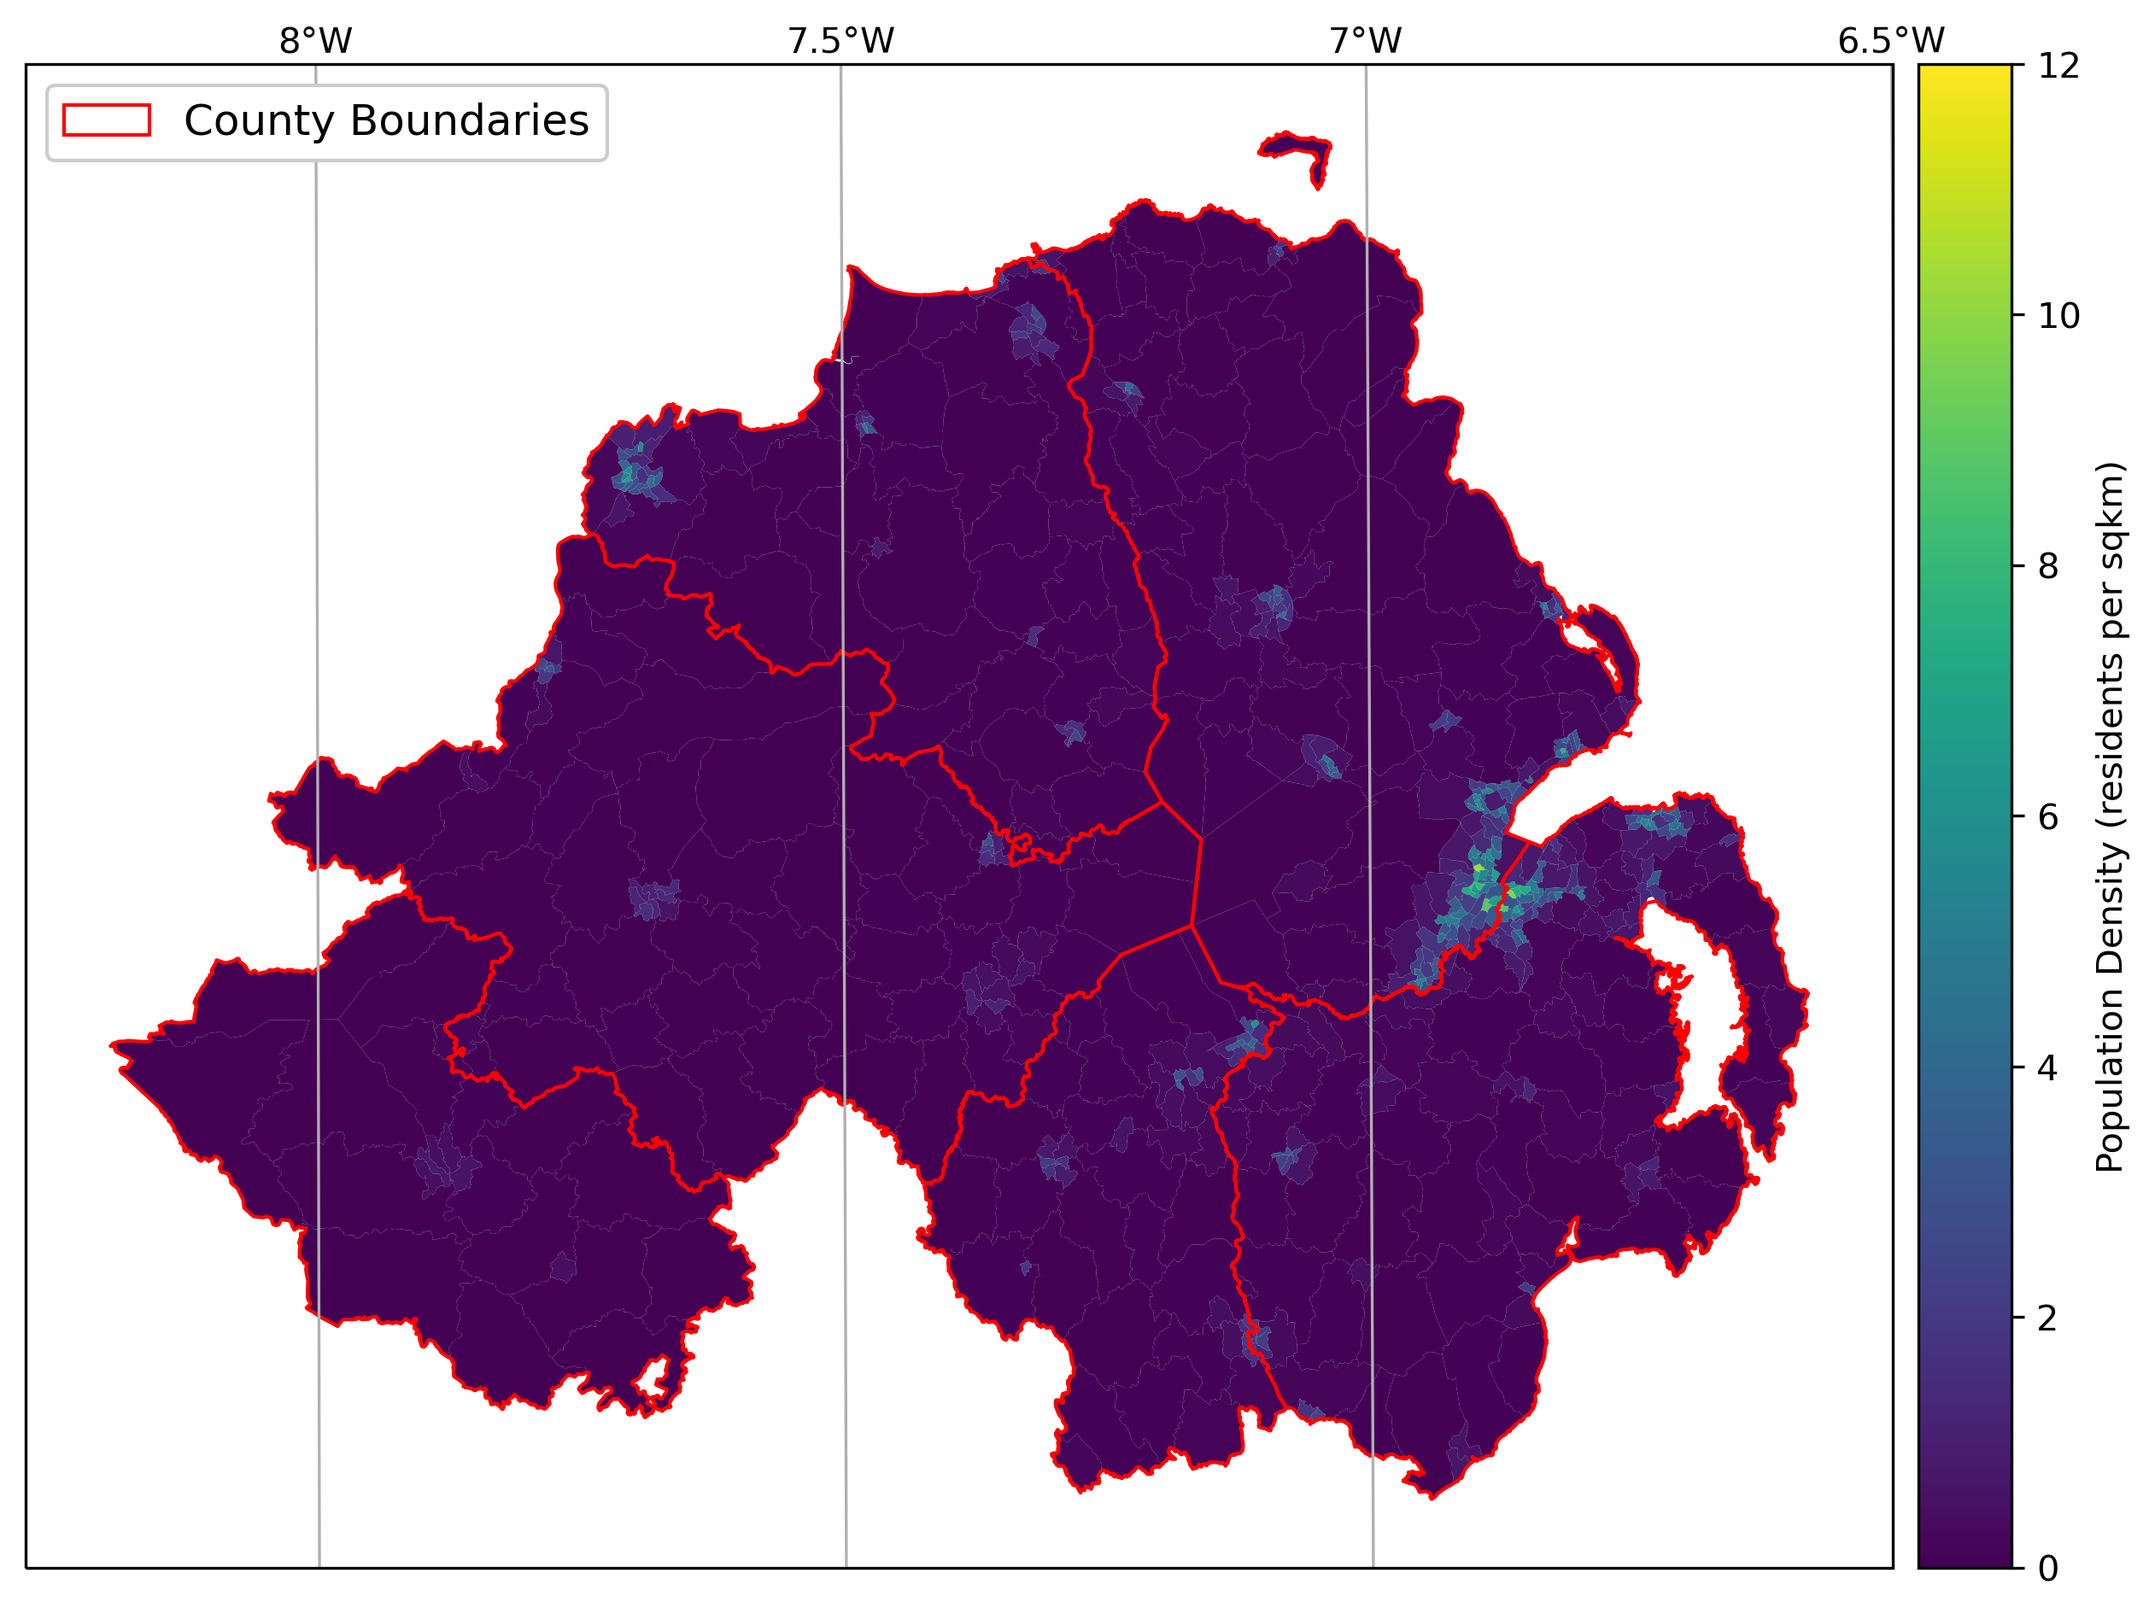
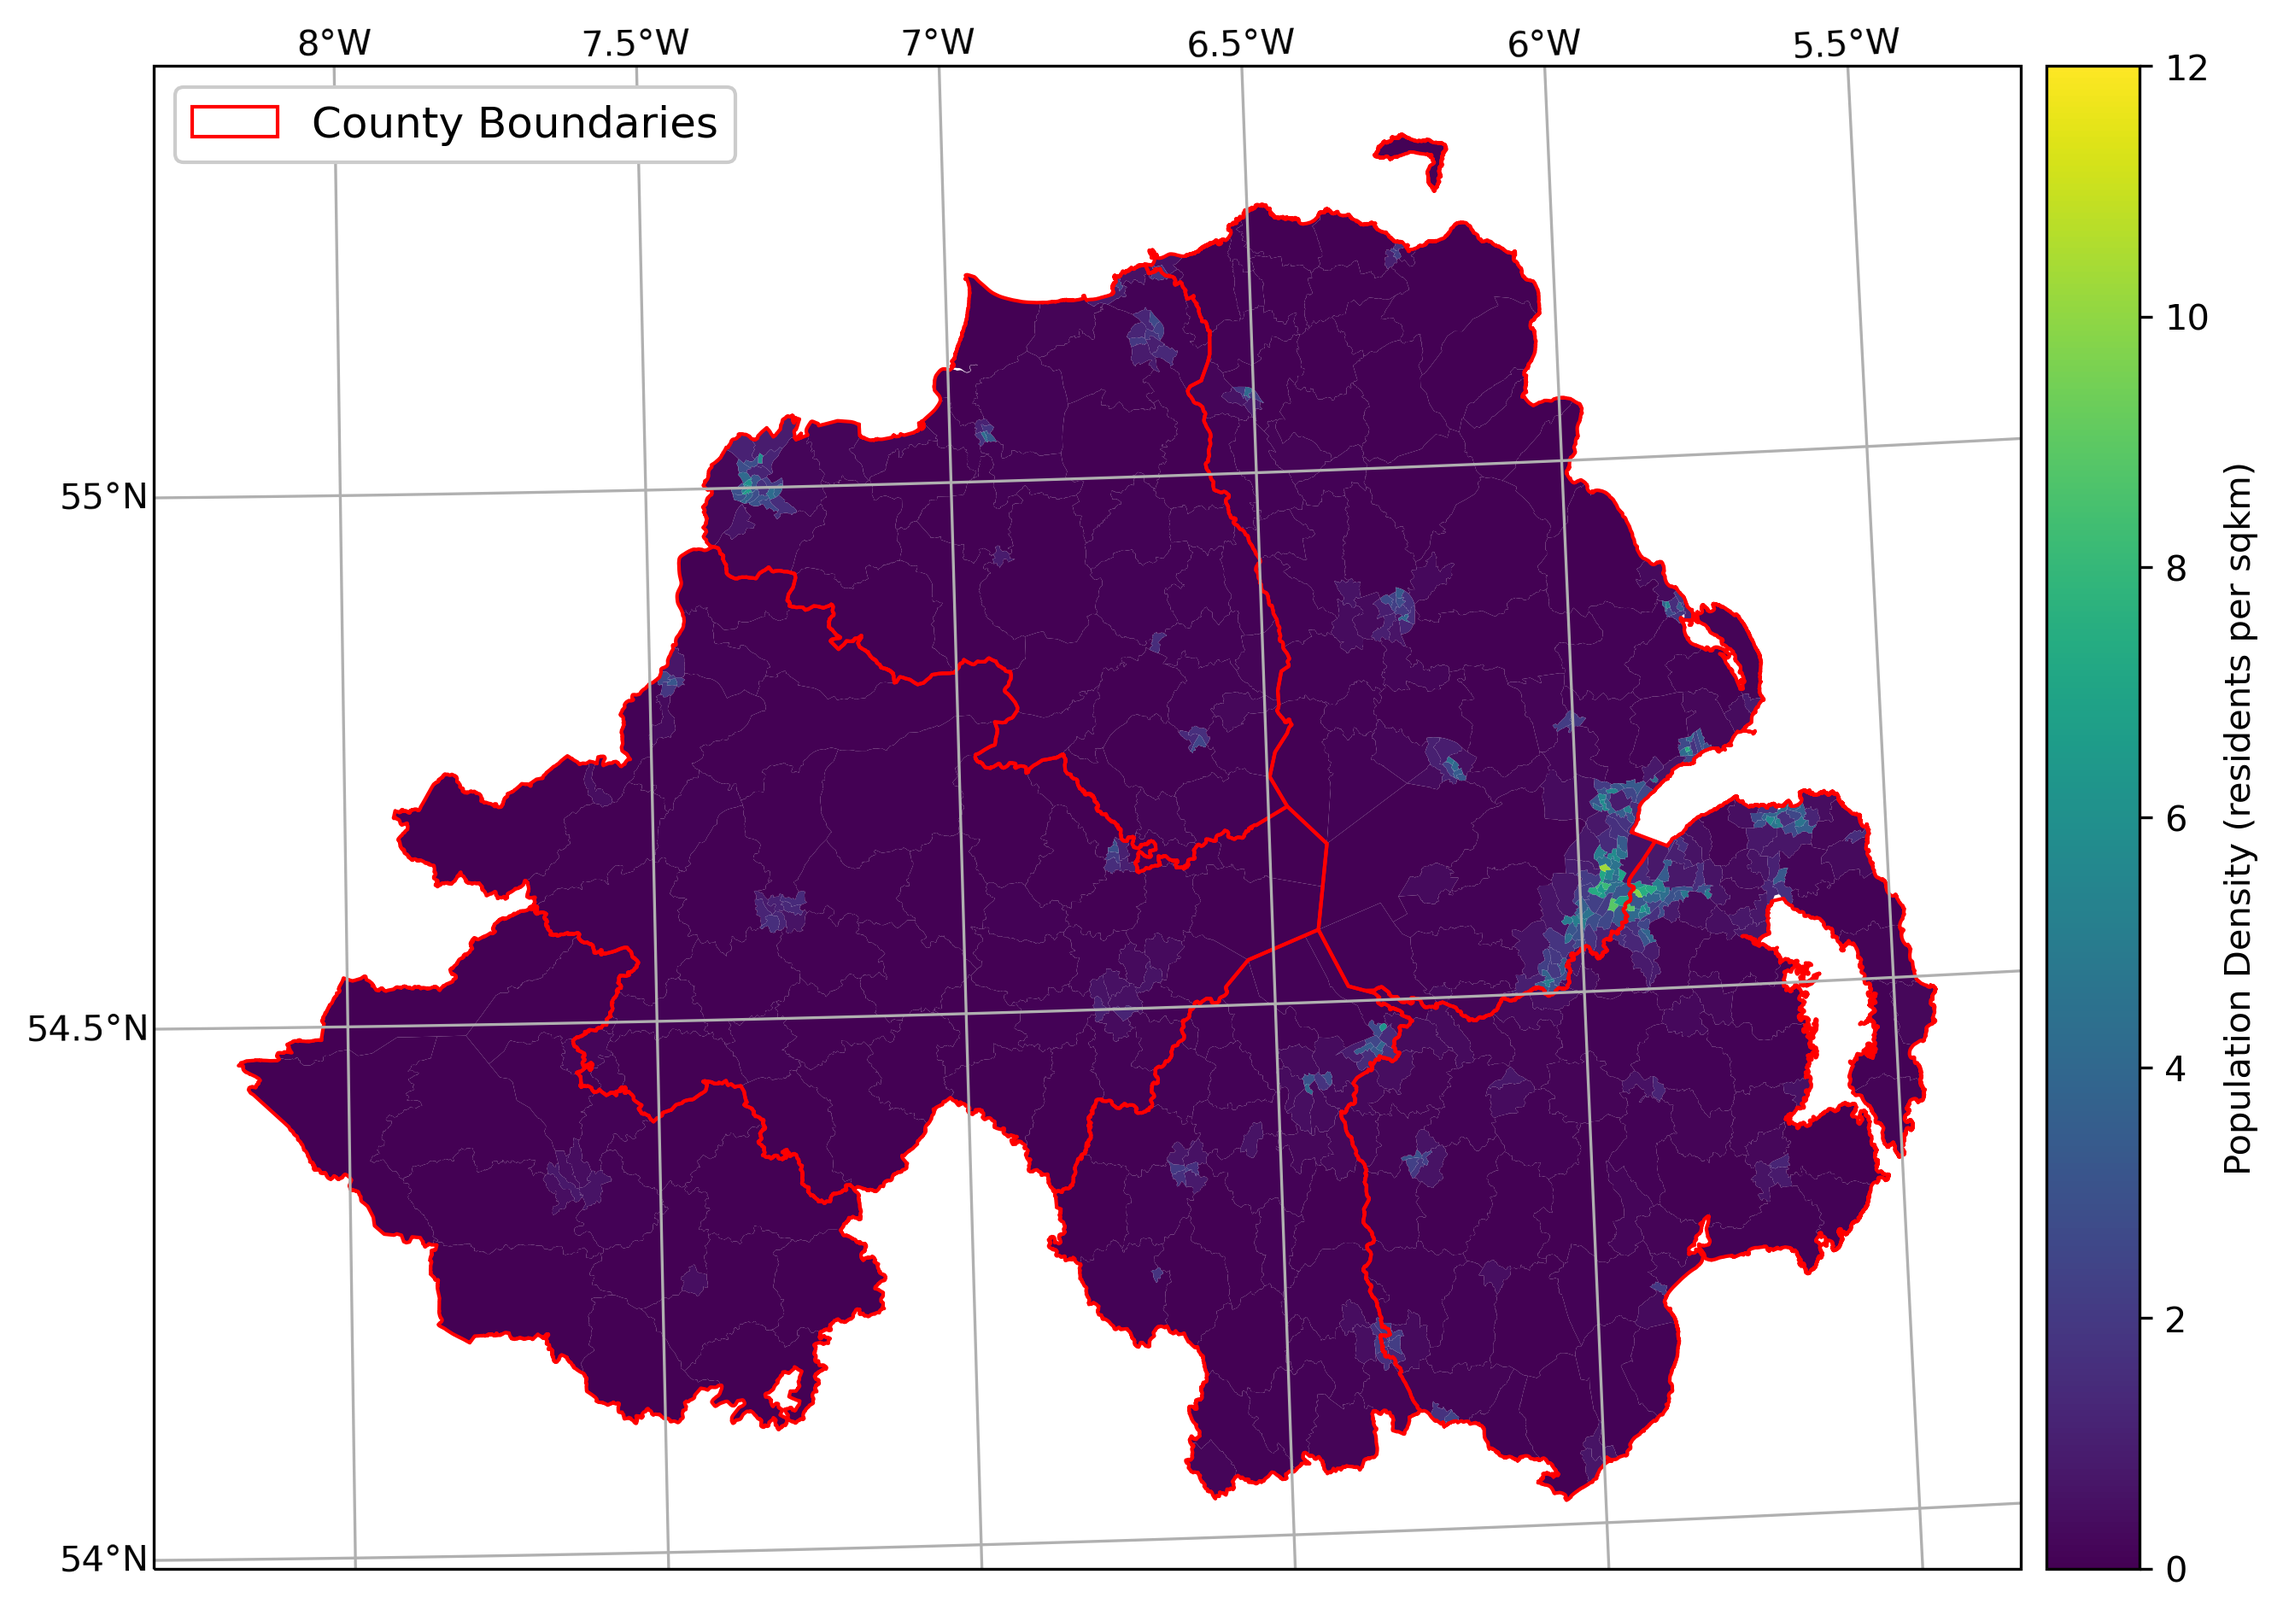
Edits - Exercise script Week 3

diff --git a/Week3/exercise_script.py b/Week3/exercise_script.py
@@ -29,8 +29,8 @@ data_folder = 'D://UlsterProgramming//egm722//Week3//data_files//'
 wards = gpd.read_file(data_folder + 'NI_Wards.shp')
 counties = gpd.read_file(data_folder + 'Counties.shp')
 
-wards = wards.to_crs(epsg=2157)
-counties = counties.to_crs(epsg=2157)
+wards = wards.to_crs(epsg=32629)
+counties = counties.to_crs(epsg=32629)
 
 join = gpd.sjoin(counties, wards, how='inner', lsuffix='left', rsuffix='right')
 
@@ -43,8 +43,8 @@ print('County with maximum population is:', countyPop.idxmax(), countyPop.max())
 print('County with minimum population is:', countyPop.idxmin(), countyPop.min())
 
 # (Additional Ex. 2-2) Prints the wards with minimum and maximum populations from list
-print('Max population Ward', wards.max(), 'Min population Ward', wards.min())
-
+print('Max population Ward', wards.max())
+print('Min population Ward', wards.min())
 
 # (Additional Ex. 2-1) Work out the number, names and populations of wards in multiple counties
 dfObj = pd.DataFrame(join)
